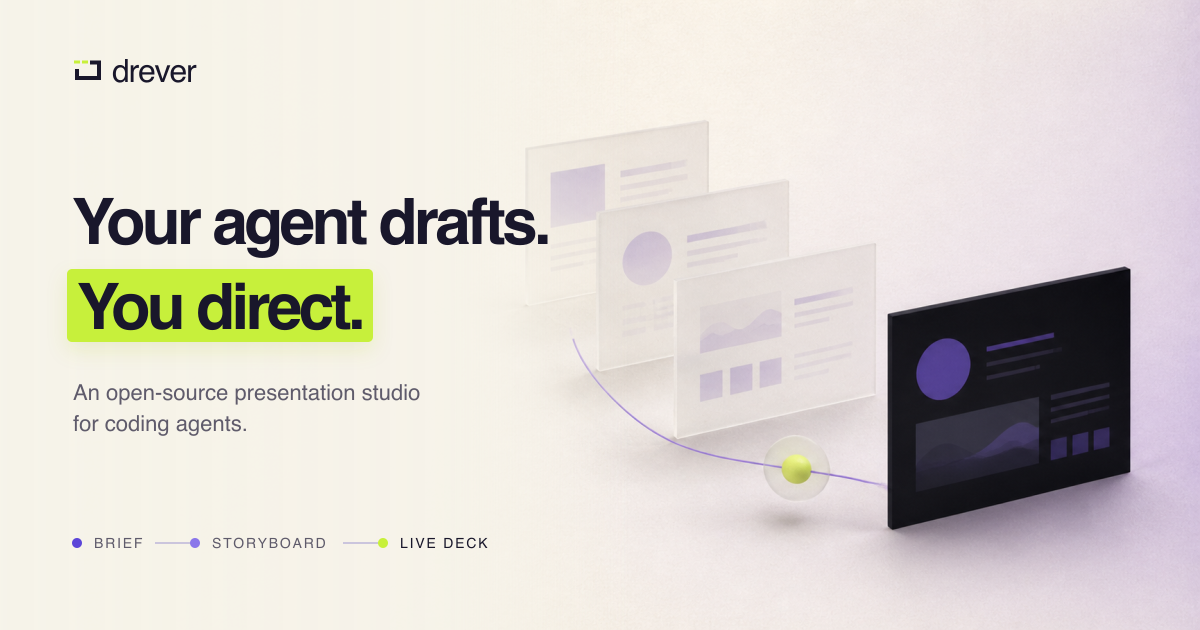
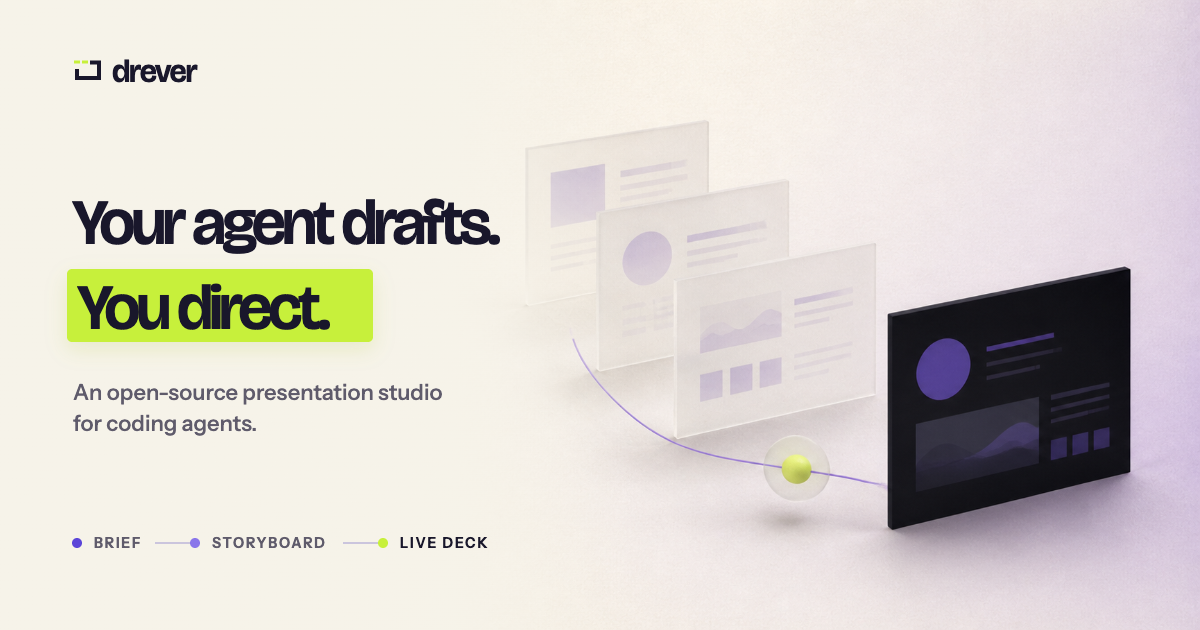
docs: render social card with brand fonts

diff --git a/e2e/social-card.check.spec.ts b/e2e/social-card.check.spec.ts
@@ -1,0 +1,37 @@
+import { readFile } from "node:fs/promises";
+import { join } from "node:path";
+import { pathToFileURL } from "node:url";
+import { expect, test } from "@playwright/test";
+
+const root = join(import.meta.dirname, "..");
+const sourcePath = join(root, ".github", "assets", "drever-social-card.svg");
+const imagePath = join(root, "website", "public", "social-card.png");
+
+test("the social card renders with the website brand fonts", async ({ page }) => {
+  await page.goto(pathToFileURL(sourcePath).href);
+  await page.evaluate(async () => document.fonts.ready);
+
+  const loadedFamilies = await page.evaluate(() =>
+    [...document.fonts]
+      .filter((font) => font.status === "loaded")
+      .map((font) => font.family.replaceAll('"', "")),
+  );
+  expect(loadedFamilies).toContain("Bricolage Grotesque");
+  expect(loadedFamilies).toContain("Instrument Sans");
+
+  const headline = page.locator("text.hero-display").first();
+  await expect(headline).toHaveCSS(
+    "font-family",
+    /Bricolage Grotesque.*Instrument Sans.*sans-serif/iu,
+  );
+  const headlineWidth = await headline.evaluate((element) =>
+    element instanceof SVGGraphicsElement ? element.getBBox().width : 0,
+  );
+  expect(headlineWidth).toBeGreaterThan(425);
+  expect(headlineWidth).toBeLessThan(431);
+
+  const png = await readFile(imagePath);
+  expect(png.subarray(1, 4).toString("ascii")).toBe("PNG");
+  expect(png.readUInt32BE(16)).toBe(1200);
+  expect(png.readUInt32BE(20)).toBe(630);
+});
